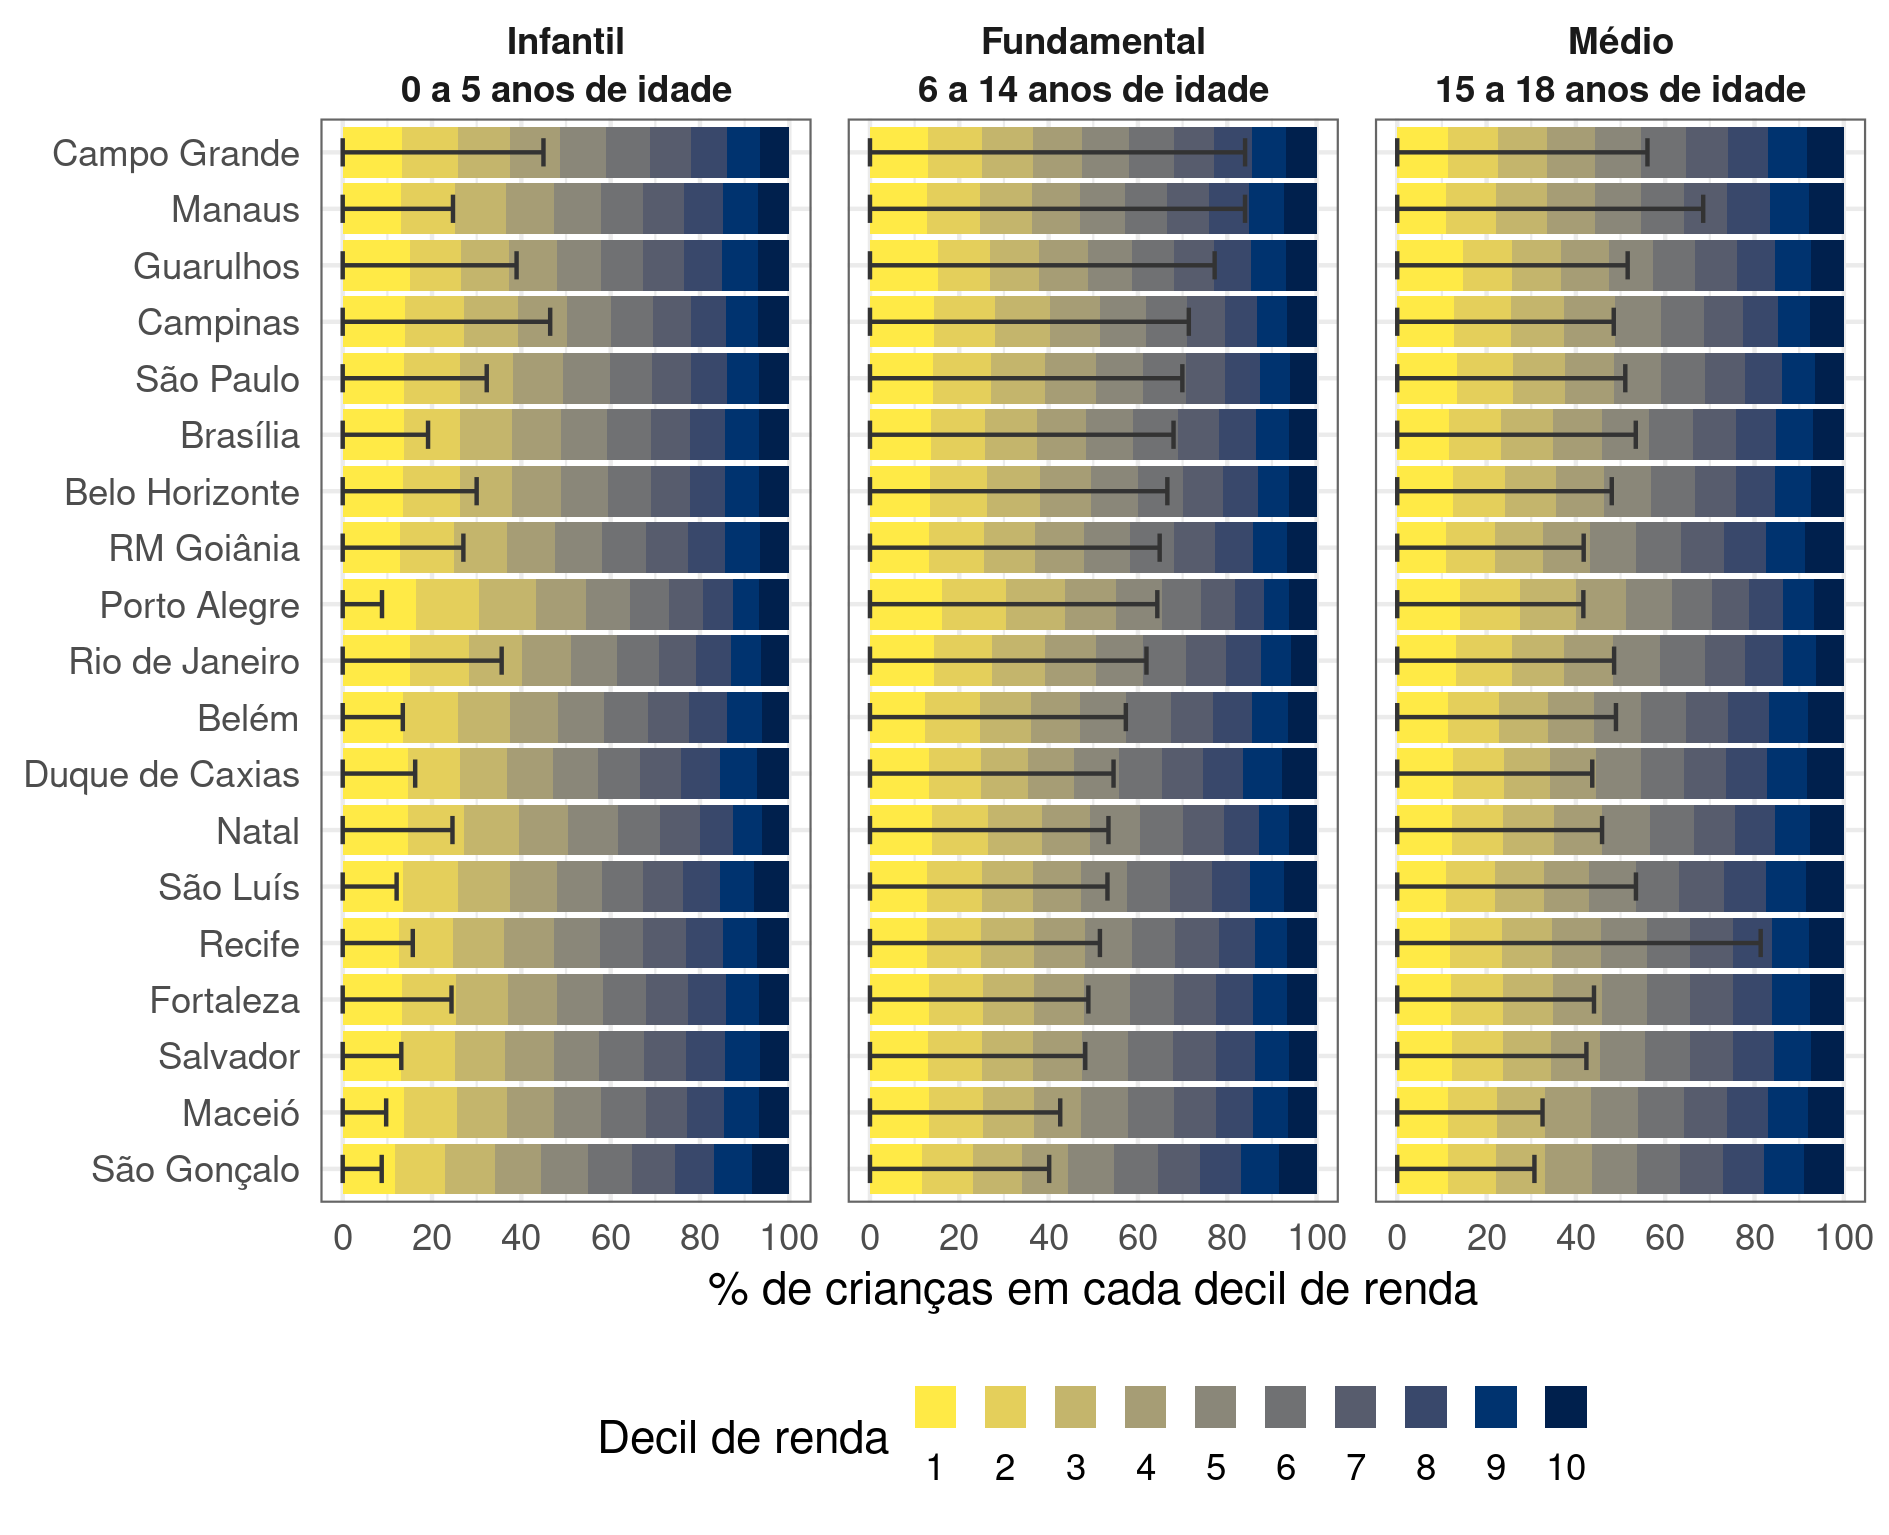
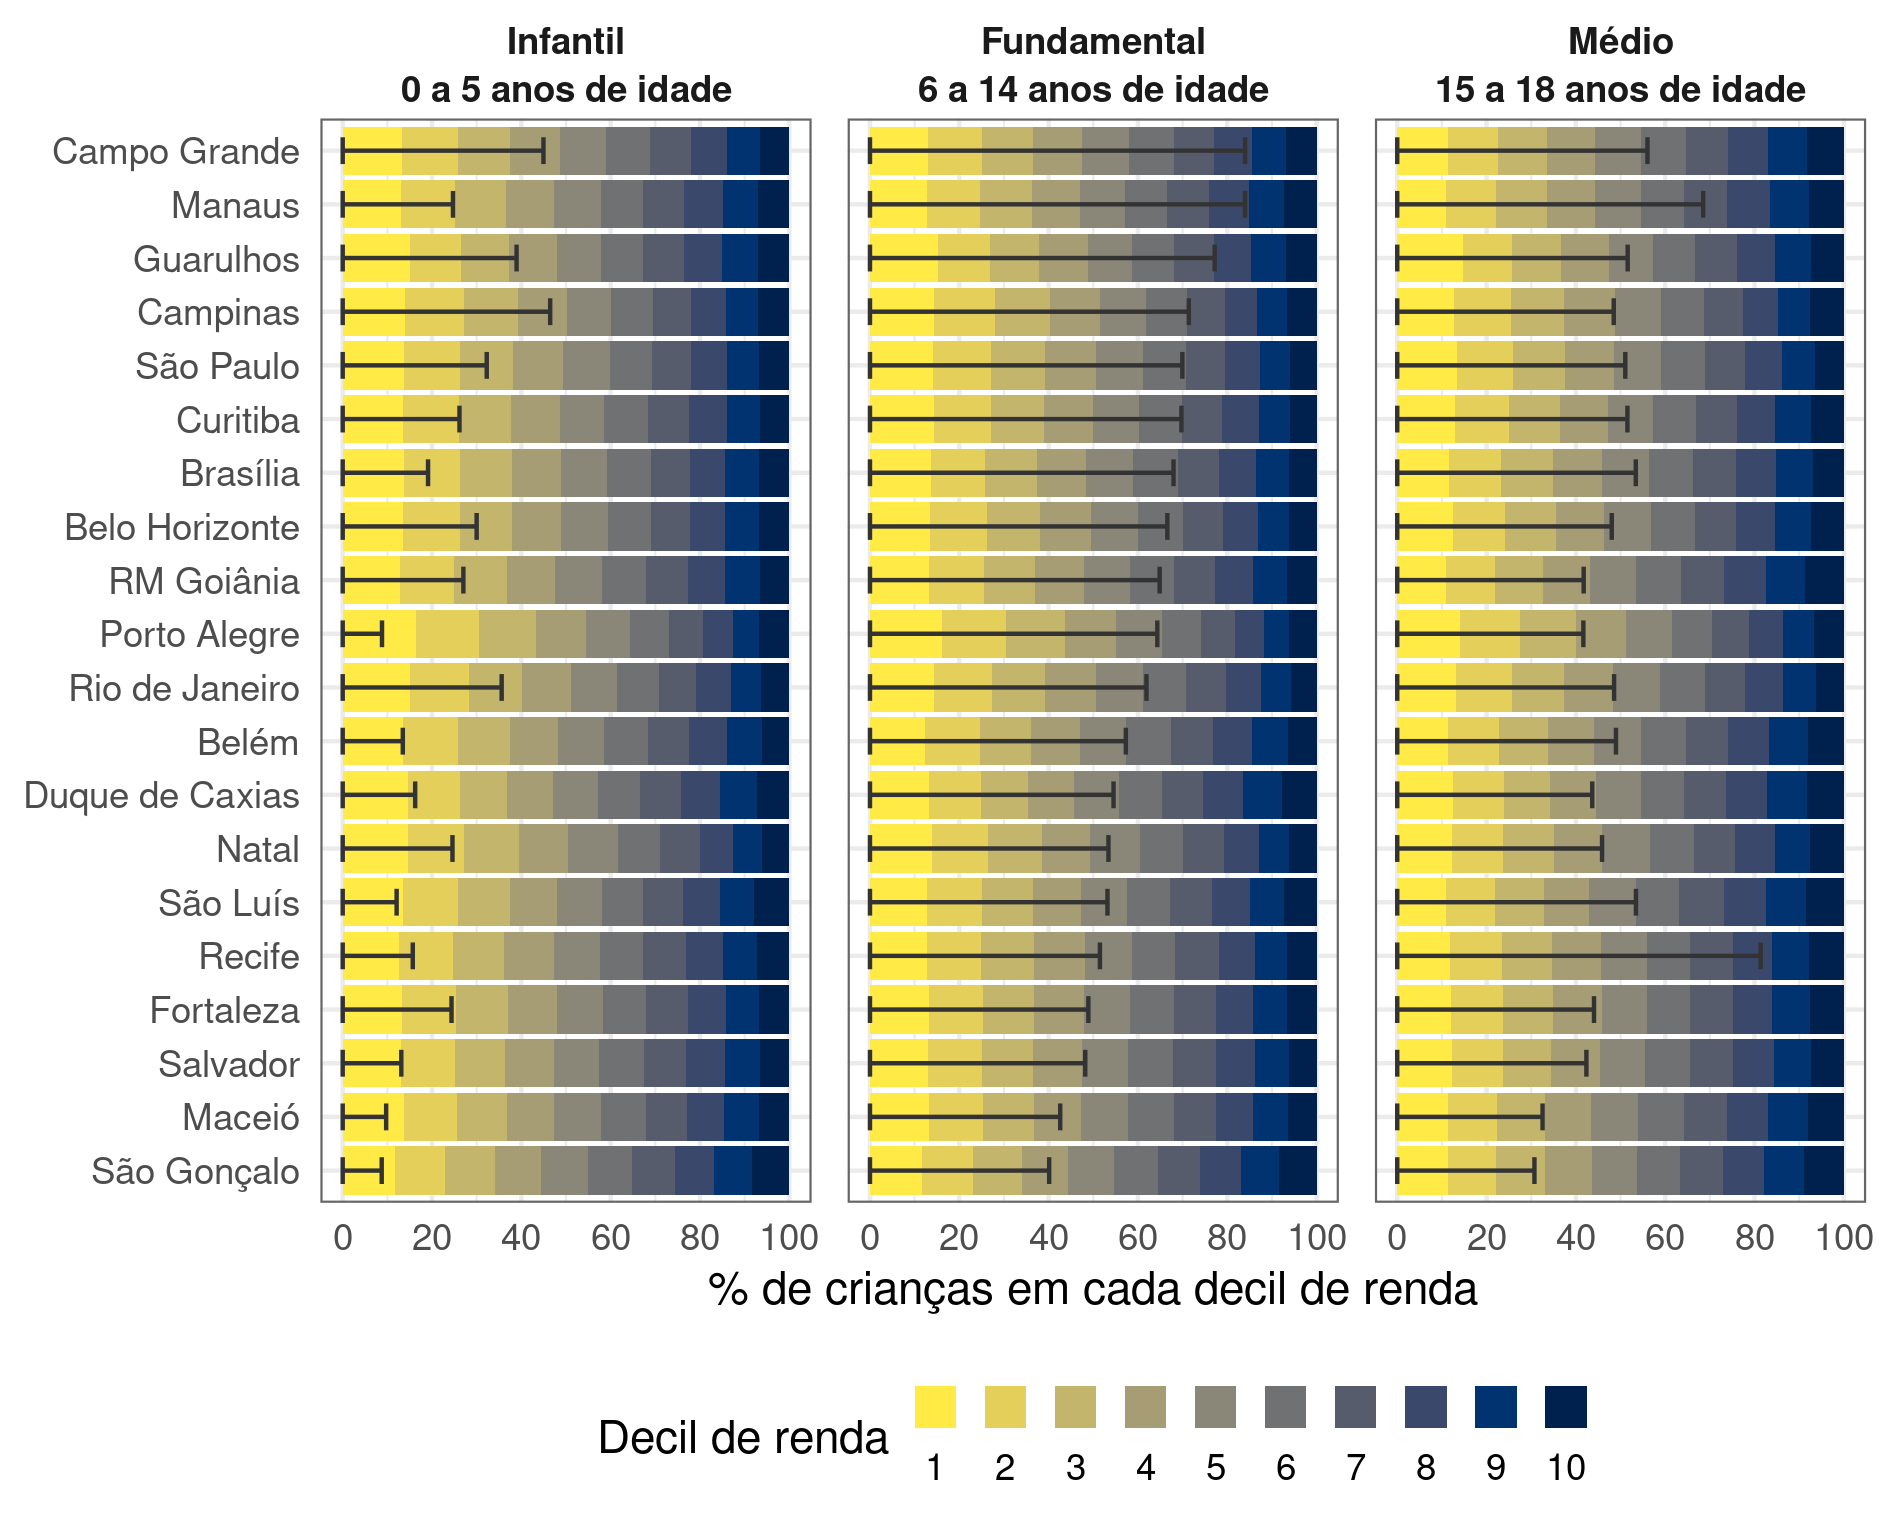
Reinclusão de Curitiba na amostra

Changed region(s): [[0.0, 0.0919, 0.406, 0.7961], [0.7184, 0.0919, 0.9682, 0.7655], [0.4373, 0.0919, 0.6871, 0.7655]]

diff --git a/output/tab_3_insuficiecia_geral.md b/output/tab_3_insuficiecia_geral.md
@@ -5,6 +5,7 @@
 |Brasília        |infantil         |        133918|43.9%        |15.1%        |fundamental       |         222468|44.0%         |15.5%         |NA           |        NA|NA      |NA      |NA      |
 |Campinas        |infantil         |         44987|34.3%        |9.3%         |fundamental       |          79870|33.9%         |9.3%          |medio        |     37595|8.0%    |24.0%   |53.6%   |
 |Campo Grande    |infantil         |         40316|21.9%        |3.0%         |fundamental       |          63559|21.6%         |3.1%          |NA           |        NA|NA      |NA      |NA      |
+|Curitiba        |infantil         |         75739|11.8%        |1.9%         |fundamental       |         132231|11.7%         |1.9%          |medio        |     63175|4.6%    |14.0%   |46.5%   |
 |Duque de Caxias |infantil         |         45570|45.6%        |11.6%        |fundamental       |          82144|44.2%         |11.1%         |NA           |        NA|NA      |NA      |NA      |
 |Fortaleza       |infantil         |        116195|22.3%        |0.8%         |fundamental       |         200104|22.5%         |0.9%          |medio        |    100192|1.7%    |5.6%    |16.2%   |
 |RM Goiânia      |infantil         |        104855|37.6%        |10.1%        |fundamental       |         175799|37.0%         |10.0%         |medio        |     79186|22.7%   |42.3%   |74.3%   |

diff --git a/output/tab_b2_qtd_matriculas.md b/output/tab_b2_qtd_matriculas.md
@@ -5,7 +5,7 @@
 |bsb         |Brasília        |    43179|      256366|  92744|  392289|
 |cam         |Campinas        |    34747|       92294|  30860|  157901|
 |cgr         |Campo Grande    |    30715|       92093|  31605|  154413|
-|cur         |Curitiba        |        0|           0|      0|       0|
+|cur         |Curitiba        |    33806|      153346|  56877|  244029|
 |duq         |Duque de Caxias |    11177|       71843|  26676|  109696|
 |for         |Fortaleza       |    48635|      167972|  78944|  295551|
 |goi         |RM Goiânia      |    48845|      195644|  61808|  306297|
@@ -20,4 +20,3 @@
 |sgo         |São Gonçalo     |     5859|       50831|  18270|   74960|
 |slz         |São Luís        |    10690|       78017|  40375|  129082|
 |spo         |São Paulo       |   270699|     1011299| 339805| 1621803|
-|NA          |NA              |        0|           0|      0|       0|

diff --git a/output/tab_b1_qtd_escolas.md b/output/tab_b1_qtd_escolas.md
@@ -5,7 +5,7 @@
 |bsb         |Brasília        |      254|         485|   103|   615|
 |cam         |Campinas        |      161|         198|   100|   369|
 |cgr         |Campo Grande    |      191|         148|    69|   272|
-|cur         |Curitiba        |        0|           0|     0|     0|
+|cur         |Curitiba        |      353|         334|   133|   565|
 |duq         |Duque de Caxias |      146|         204|    75|   251|
 |for         |Fortaleza       |      211|         352|   160|   453|
 |goi         |RM Goiânia      |      428|         484|   144|   728|
@@ -20,4 +20,3 @@
 |sgo         |São Gonçalo     |       74|         154|    64|   181|
 |slz         |São Luís        |       67|         153|    95|   272|
 |spo         |São Paulo       |      945|        1565|   661|  2632|
-|NA          |NA              |        0|           0|     0|     0|
